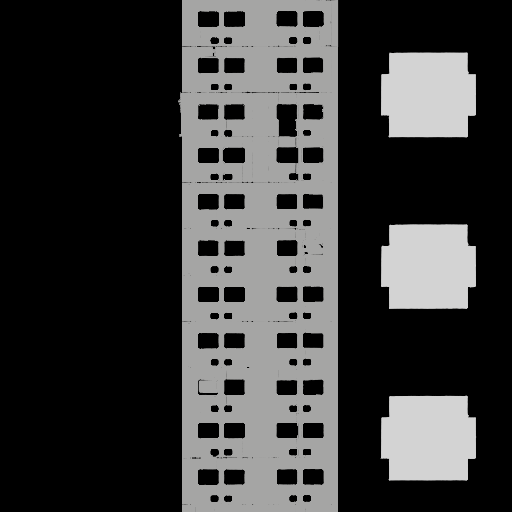
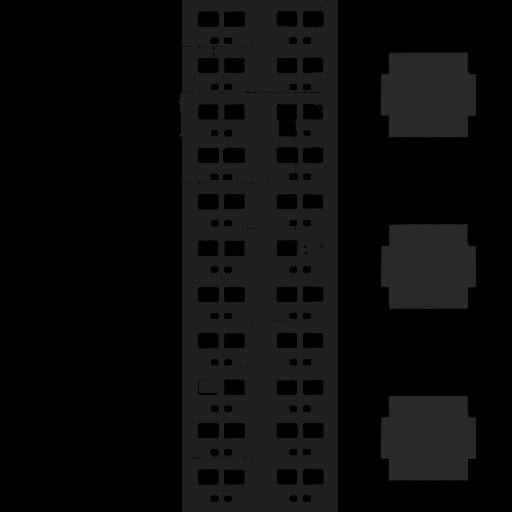
Desaturated the building patterns. Really going to need an artist to butter those up though. Store the city seed, use it when generating the colours for the buildings.

diff --git a/src/CityOnPlanet.cpp b/src/CityOnPlanet.cpp
@@ -134,11 +134,22 @@ void CityOnPlanet::AddStaticGeomsToCollisionSpace()
 			++numVisibleBuildings;
 		}
 	}
+	
+	// randomly colour all of the buildings based on the see used to generate the city
+	Random rand;
+	rand.seed(m_seed);
+	SceneGraph::ModelSkin skin;
+	// we know how many building we'll be adding, reserve space up front
 	m_enabledBuildings.reserve(numVisibleBuildings);
 	for (unsigned int i=0; i<m_buildings.size(); i++) {
 		if (i & skipMask) {
 		} else {
 			m_frame->AddStaticGeom(m_buildings[i].geom);
+			// set a custom skin
+			SceneGraph::Model *m = m_buildings[i].model;
+			skin.SetRandomColors(rand);
+			skin.SetPattern(rand.Int32(0, m->GetNumPatterns()));
+			skin.Apply(m);
 			m_enabledBuildings.push_back(m_buildings[i]);
 		}
 	}
@@ -229,7 +240,7 @@ CityOnPlanet::~CityOnPlanet()
 	}
 }
 
-CityOnPlanet::CityOnPlanet(Planet *planet, SpaceStation *station, Uint32 seed)
+CityOnPlanet::CityOnPlanet(Planet *planet, SpaceStation *station, const Uint32 seed) : m_seed(seed)
 {
 	m_buildings.clear();
 	m_buildings.reserve(DEFAULT_NUM_BUILDINGS);

diff --git a/src/CityOnPlanet.h b/src/CityOnPlanet.h
@@ -21,7 +21,7 @@ namespace SceneGraph { class Model; }
 class CityOnPlanet: public Object {
 public:
 	OBJDEF(CityOnPlanet, Object, CITYONPLANET);
-	CityOnPlanet(Planet *planet, SpaceStation *station, Uint32 seed);
+	CityOnPlanet(Planet *planet, SpaceStation *station, const Uint32 seed);
 	virtual ~CityOnPlanet();
 	void Render(Graphics::Renderer *r, const Camera *camera, const SpaceStation *station, const vector3d &viewCoords, const matrix4x4d &viewTransform);
 	inline Planet *GetPlanet() const { return m_planet; }
@@ -47,6 +47,7 @@ private:
 	std::vector<BuildingDef> m_enabledBuildings;
 	int m_detailLevel;
 	float m_clipRadius;
+	const Uint32 m_seed;
 };
 
 #endif /* _CITYONPLANET_H */
